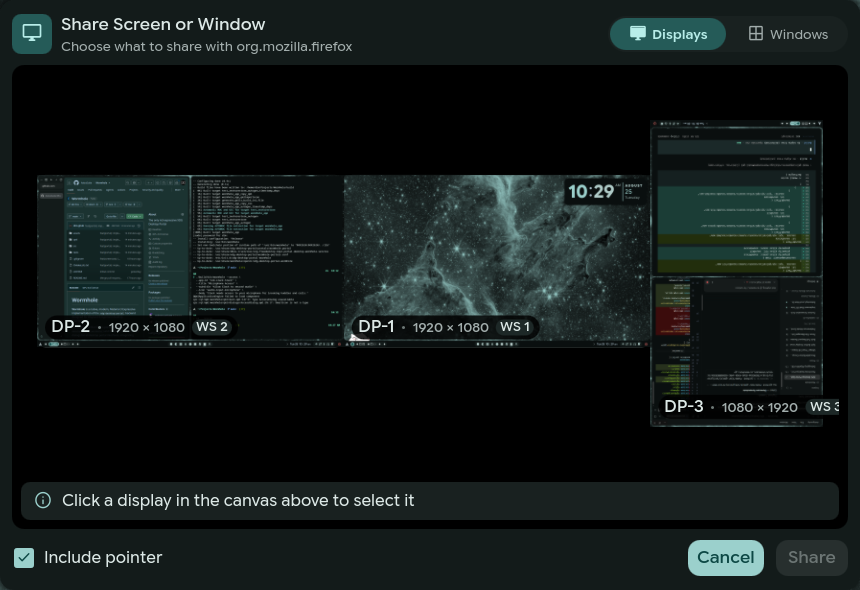
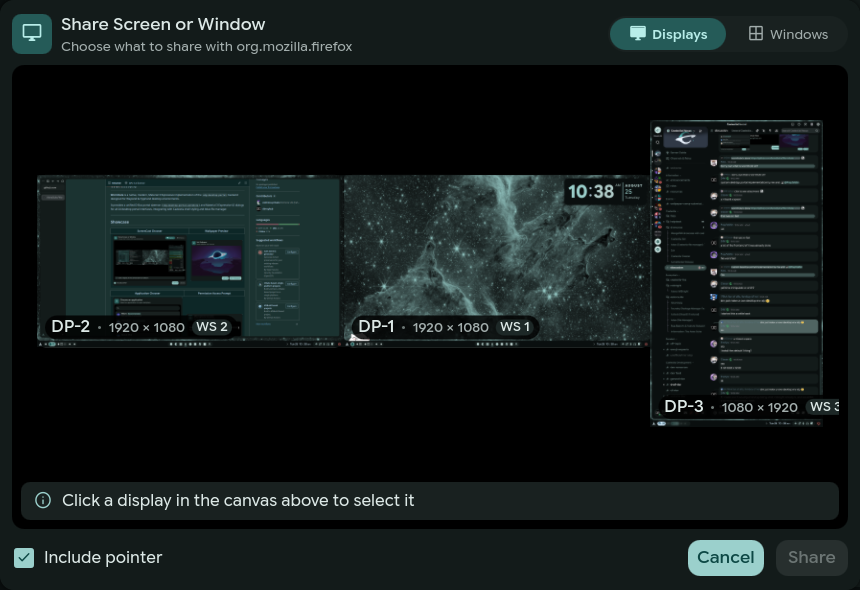
fix(screencast): correct Wayland output rotation transform mapping for 90/270 degree displays

diff --git a/src/screencast/waylandcapture.cpp b/src/screencast/waylandcapture.cpp
@@ -57,27 +57,27 @@ QTransform inverseOf(uint32_t transform) {
     QTransform t;
     switch (transform) {
     case WL_OUTPUT_TRANSFORM_90:
-        t.rotate(-90);
+        t.rotate(90);
         break;
     case WL_OUTPUT_TRANSFORM_180:
-        t.rotate(-180);
+        t.rotate(180);
         break;
     case WL_OUTPUT_TRANSFORM_270:
-        t.rotate(-270);
+        t.rotate(270);
         break;
     case WL_OUTPUT_TRANSFORM_FLIPPED:
         t.scale(-1, 1);
         break;
     case WL_OUTPUT_TRANSFORM_FLIPPED_90:
-        t.rotate(-90);
+        t.rotate(90);
         t.scale(-1, 1);
         break;
     case WL_OUTPUT_TRANSFORM_FLIPPED_180:
-        t.rotate(-180);
+        t.rotate(180);
         t.scale(-1, 1);
         break;
     case WL_OUTPUT_TRANSFORM_FLIPPED_270:
-        t.rotate(-270);
+        t.rotate(270);
         t.scale(-1, 1);
         break;
     default:
